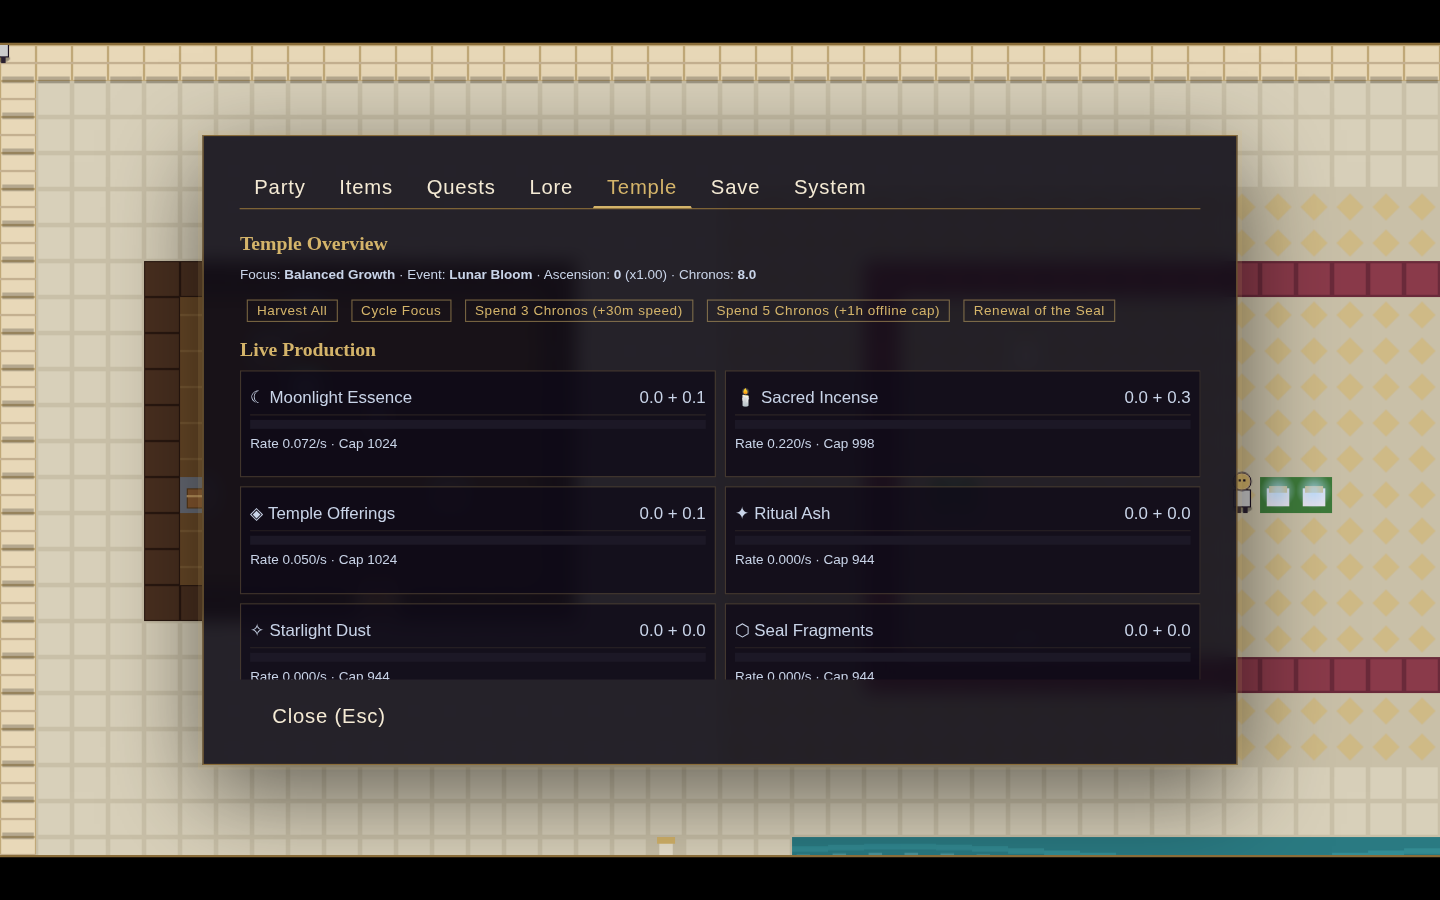
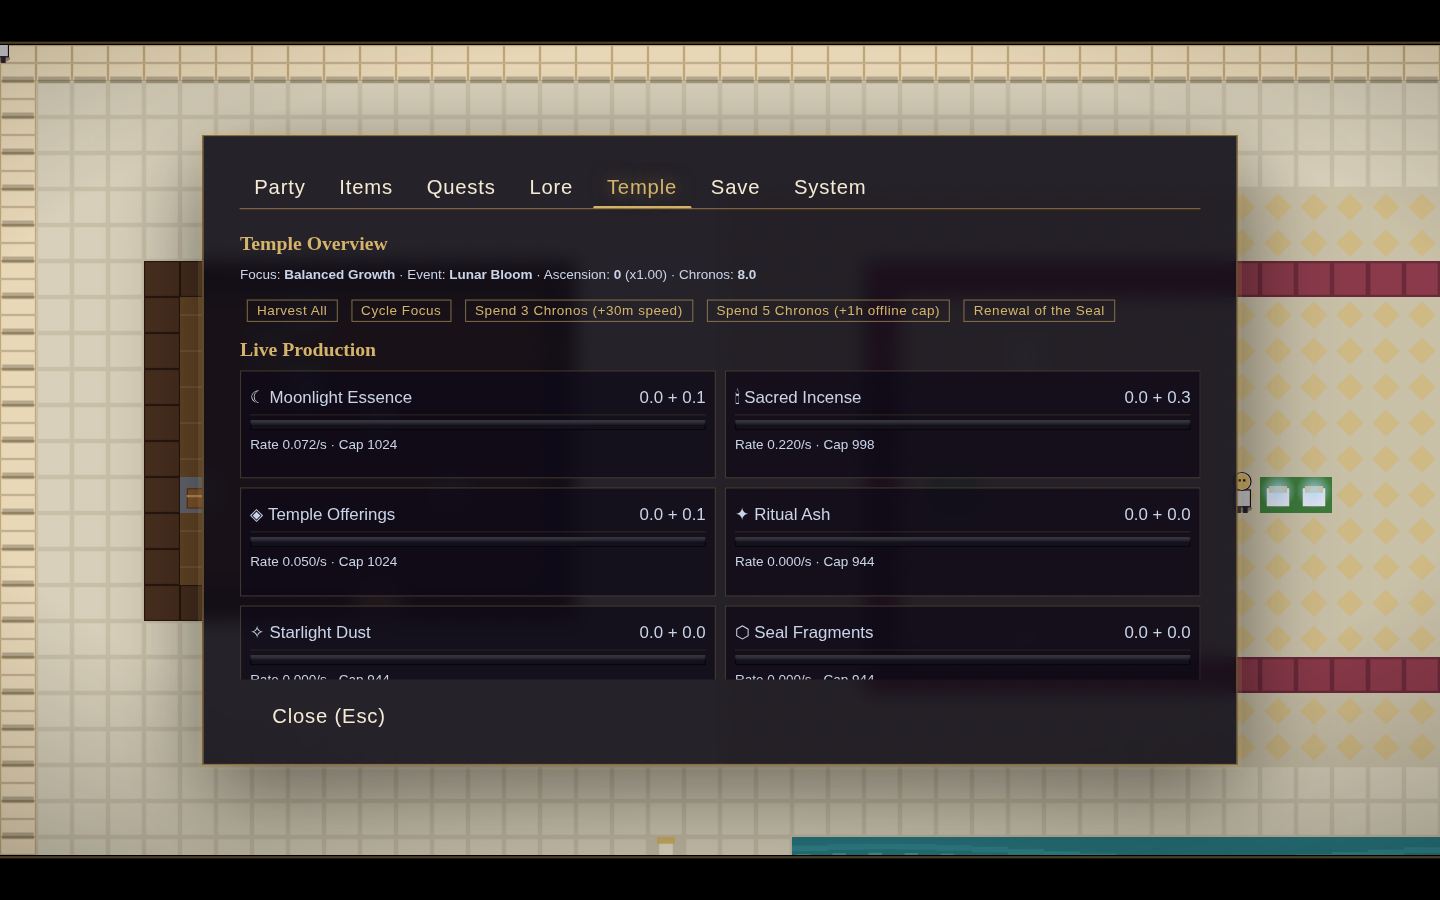
iOS host hooks: Platform adapter, suspend save, camp touch button, rename to Temple of the High Priestess
- js/platform.js: single host adapter. Web = localStorage; in the iOS shell (window.SOTH_HOST)
  storage writes are mirrored to the native save store, and haptics/game events/suspend-save
  go over webkit.messageHandlers.soth. No behavior change on the web.
- game.js: localStorage -> Platform.getItem/setItem; Platform.haptic(kind) in sfx() and on
  victory; Platform.event('flag'|'battle_won'); 'auto' suspend-save slot written when the
  app/tab is backgrounded on the map (shown in Load, used by Continue).
- Touch: camp button (C had no touch control), map only, 46px.
- Title: Temple of the High Priestess (matches the App Store record).
- Pages deploy excludes ios/, server/, docs/asc and assets/lina-ref.jpg; CI ignores ios/server/docs.

diff --git a/js/game.js b/js/game.js
@@ -1,5 +1,5 @@
 /* =============================================================================
-   Seal of the High Priestess — engine
+   Temple of the High Priestess — engine
    States: title, vn, map, battle, menu, gameover, credits, saves, options
    Battle implements LinaHua's loop: Mana spend / Meditate / Unseal berserk /
    charge-up turns / gassed-out turns. No XP. Named gear only.
@@ -123,6 +123,7 @@
     if (b.dataset.k === "KeyZ") { S.just.ok = true; S.keys.ok = true; }
     if (b.dataset.k === "KeyX") { S.just.cancel = true; S.keys.cancel = true; }
     if (b.dataset.k === "Escape") { S.just.menu = true; }
+    if (b.dataset.k === "KeyC") { S.just.camp = true; }
   }
   function touchRelease(b) {
     b.classList.remove("held");
@@ -192,7 +193,7 @@
   function setVol(v) {
     S.settings.vol = v;
     if (master) master.gain.value = v;
-    try { localStorage.setItem("soth_settings", JSON.stringify(S.settings)); } catch (e) {}
+    try { Platform.setItem("soth_settings", JSON.stringify(S.settings)); } catch (e) {}
   }
   let noiseBuf = null;
   function noiseBurst(dur, gain, hp, at) {
@@ -246,6 +247,7 @@
     }
   }
   function sfx(kind) {
+    Platform.haptic(kind);
     if (!actx || S.settings.vol <= 0) return;
     const o = actx.createOscillator();
     const g = actx.createGain();
@@ -821,6 +823,7 @@
   function setFlag(k, v) {
     if (v === undefined) v = 1;
     S.flags[k] = v;
+    Platform.event("flag", { k, v });
     if (k === "lyra_joined" && !S.party.includes("lyra")) {
       S.chars.lyra = makeChar("lyra"); S.party.push("lyra"); applyGrowth(S.chars.lyra);
     }
@@ -1276,12 +1279,12 @@
     idleApplyOffline(elapsed, "load");
   }
   function saveSlot(n) {
-    try { localStorage.setItem("soth_slot_" + n, JSON.stringify(serialize())); sfx("save"); toast("Saved to slot " + (n + 1)); }
+    try { Platform.setItem("soth_slot_" + n, JSON.stringify(serialize())); sfx("save"); toast("Saved to slot " + (n + 1)); }
     catch (e) { toast("Save failed"); }
   }
   function loadSlot(n) {
     try {
-      const d = JSON.parse(localStorage.getItem("soth_slot_" + n) || "null");
+      const d = JSON.parse(Platform.getItem("soth_slot_" + n) || "null");
       if (!d) return false;
       deserialize(d);
       hideAllScreens();
@@ -1289,15 +1292,25 @@
       return true;
     } catch (e) { return false; }
   }
+  // Suspend save ("auto" slot): written when the app/tab goes to the background while the
+  // player is free on the map, so iOS killing a backgrounded app never loses progress.
+  function suspendSave() {
+    if (S.state !== "map" && !(S.state === "menu" && S._return === "map")) return null;
+    try { const json = JSON.stringify(serialize()); Platform.setItem("soth_slot_auto", json); return json; }
+    catch (e) { return null; }
+  }
+  Platform.on("suspend", suspendSave);
+  Platform.on("savesChanged", () => { if (S.state === "title") $("btn-continue").disabled = !hasAnySave(); });
+  document.addEventListener("visibilitychange", () => { if (document.hidden && !Platform.native) suspendSave(); });
+  const SLOT_IDS = [0, 1, 2, "auto"];
   function hasAnySave() {
-    for (let i = 0; i < 3; i++) if (localStorage.getItem("soth_slot_" + i)) return true;
-    return false;
+    return SLOT_IDS.some((i) => !!Platform.getItem("soth_slot_" + i));
   }
   function latestSave() {
     let best = -1, t = 0;
-    for (let i = 0; i < 3; i++) {
+    for (const i of SLOT_IDS) {
       try {
-        const d = JSON.parse(localStorage.getItem("soth_slot_" + i) || "null");
+        const d = JSON.parse(Platform.getItem("soth_slot_" + i) || "null");
         if (d && d.when > t) { t = d.when; best = i; }
       } catch (e) {}
     }
@@ -1336,7 +1349,7 @@
     if (act === "continue") {
       ensureAudio();
       const n = latestSave();
-      if (n >= 0) loadSlot(n);
+      if (n !== -1) loadSlot(n);
     }
     if (act === "options") showOptions(true);
     if (act === "credits") {
@@ -1391,7 +1404,7 @@
     if (S.state === "vn") S.just.ok = true;
   });
   function persistSettings() {
-    try { localStorage.setItem("soth_settings", JSON.stringify(S.settings)); } catch (e) {}
+    try { Platform.setItem("soth_settings", JSON.stringify(S.settings)); } catch (e) {}
   }
   document.body.addEventListener("click", (e) => {
     const b = e.target.closest("button");
@@ -3520,6 +3533,8 @@
   }
   function winBattle() {
     const b = S.battle;
+    Platform.haptic("victory");
+    Platform.event("battle_won", { id: b.def && b.def.id });
     cancelHealingRainAim(true);
     $("battle-hud").classList.remove("cinematic");
     if (S.idle) idleSimulate(120, "battleReward");
@@ -3982,10 +3997,22 @@
     $("save-title").textContent = mode === "save" ? "Save" : "Load";
     const box = $("save-slots");
     box.innerHTML = "";
+    if (mode === "load") {
+      try {
+        const d = JSON.parse(Platform.getItem("soth_slot_auto") || "null");
+        if (d) {
+          const btn = document.createElement("button");
+          btn.className = "save-slot";
+          btn.innerHTML = `<div>Suspend save — ${MAPS[d.mapId]?.name || d.mapId}</div><div class="when">${new Date(d.when).toLocaleString()}</div>`;
+          btn.addEventListener("click", () => loadSlot("auto"));
+          box.appendChild(btn);
+        }
+      } catch (e) {}
+    }
     for (let i = 0; i < 3; i++) {
       let label = "Empty slot " + (i + 1);
       try {
-        const d = JSON.parse(localStorage.getItem("soth_slot_" + i) || "null");
+        const d = JSON.parse(Platform.getItem("soth_slot_" + i) || "null");
         if (d) {
           const loc = MAPS[d.mapId]?.name || d.mapId;
           label = `${loc} — party of ${d.party.length}`;
@@ -4267,7 +4294,7 @@
   async function boot() {
     fit();
     try {
-      const st = JSON.parse(localStorage.getItem("soth_settings") || "null");
+      const st = JSON.parse(Platform.getItem("soth_settings") || "null");
       if (st) Object.assign(S.settings, st);
     } catch (e) {}
     ensureIdleState();

diff --git a/js/platform.js b/js/platform.js
@@ -1,0 +1,43 @@
+/* =============================================================================
+   Platform adapter — the only place the game talks to its host.
+   Web: plain localStorage, everything else is a no-op.
+   iOS app (window.SOTH_HOST set by the native shell before any script runs):
+     - storage writes are mirrored to the native save store (the source of truth,
+       which seeds localStorage at document start and syncs to the cloud),
+     - haptics / game events / suspend-save go to the shell over
+       webkit.messageHandlers.soth.
+   ============================================================================= */
+window.Platform = (() => {
+  const host = window.SOTH_HOST || null;
+  const handler = host && window.webkit && window.webkit.messageHandlers && window.webkit.messageHandlers.soth;
+  const native = !!handler;
+  function post(msg) {
+    if (!native) return;
+    try { handler.postMessage(msg); } catch (e) {}
+  }
+  function getItem(k) {
+    try { return localStorage.getItem(k); } catch (e) { return null; }
+  }
+  // Throws when nothing could persist the value (web with storage blocked), so callers can report it.
+  function setItem(k, v) {
+    let ok = true;
+    try { localStorage.setItem(k, v); } catch (e) { ok = false; }
+    post({ type: "store", key: k, value: v });
+    if (!ok && !native) throw new Error("storage unavailable");
+  }
+  function removeItem(k) {
+    try { localStorage.removeItem(k); } catch (e) {}
+    post({ type: "store", key: k, value: null });
+  }
+  const hooks = {};
+  return {
+    native,
+    name: native ? (host.platform || "native") : "web",
+    getItem, setItem, removeItem,
+    haptic(kind) { post({ type: "haptic", kind }); },
+    event(name, data) { post({ type: "event", name, data: data || null }); },
+    // The engine registers hooks; the host calls them (e.g. Platform.call("suspend")).
+    on(name, fn) { hooks[name] = fn; },
+    call(name, arg) { try { return hooks[name] ? hooks[name](arg) : null; } catch (e) { return null; } }
+  };
+})();

diff --git a/index.html b/index.html
@@ -9,13 +9,13 @@
   <meta name="apple-mobile-web-app-status-bar-style" content="black-translucent" />
   <meta name="apple-mobile-web-app-title" content="High Priestess" />
   <meta name="format-detection" content="telephone=no" />
-  <title>Seal of the High Priestess</title>
+  <title>Temple of the High Priestess</title>
   <meta name="description" content="A 2D JRPG / visual-novel hybrid. A journey of purification and poisoned words." />
   <link rel="stylesheet" href="css/game.css" />
 </head>
 <body>
   <!--
-    Seal of the High Priestess
+    Temple of the High Priestess
     Design inspiration: LinaHua (@Linahuaa) — AI-assisted solo JRPG
     focused on writing, world-building, and slow strategic combat.
 
@@ -31,7 +31,7 @@
         <div class="title-veil"></div>
         <div class="title-card">
           <p class="title-kicker">A Journey of Purification and Poisoned Words</p>
-          <h1>Seal of the High Priestess</h1>
+          <h1>Temple of the High Priestess</h1>
           <p class="title-sub">A 2D epic JRPG / visual-novel hybrid</p>
           <nav class="title-menu" id="title-menu">
             <button data-act="new">New Game</button>
@@ -175,12 +175,14 @@
       <div id="touch-btns">
         <button data-k="KeyZ">Z</button>
         <button data-k="KeyX">X</button>
+        <button data-k="KeyC" class="camp-btn" aria-label="Camp at lotus altar">⛺</button>
         <button data-k="Escape">☰</button>
       </div>
     </div>
     <p id="rotate-hint" class="hidden">Turn your phone sideways for a bigger view</p>
   </div>
 
+  <script src="js/platform.js"></script>
   <script src="js/content.js"></script>
   <script src="js/maps.js"></script>
   <script src="js/dialogue.js"></script>

diff --git a/css/game.css b/css/game.css
@@ -829,6 +829,13 @@ body.high-contrast-icons .idle-card .row span:first-child { color: #fff7ca; text
   z-index: 14;
 }
 #rotate-hint::before { content: "⟳ "; color: var(--gold); }
+/* Camp (C) only matters while exploring; smaller so the Z/X pair stays dominant. */
+#touch:not(.on-map) .camp-btn { display: none; }
+#touch-btns .camp-btn { width: 46px; height: 46px; align-self: center; font-size: 16px; }
+#touch.mode-deck #touch-btns {
+  grid-template-areas: "camp menu" "x z";
+}
+#touch.mode-deck #touch-btns .camp-btn { grid-area: camp; }
 /* Keyboard hints mean nothing on a phone. */
 body.touch .title-hint, body.touch #map-hint { display: none; }
 

diff --git a/js/content.js b/js/content.js
@@ -5,7 +5,7 @@
 window.DATA = (() => {
   const C = {};
 
-  C.TITLE = "Seal of the High Priestess";
+  C.TITLE = "Temple of the High Priestess";
   C.SUBTITLE = "A Journey of Purification and Poisoned Words";
 
   // ---- Characters (story stats; power rises only via flags / named gear) ----
